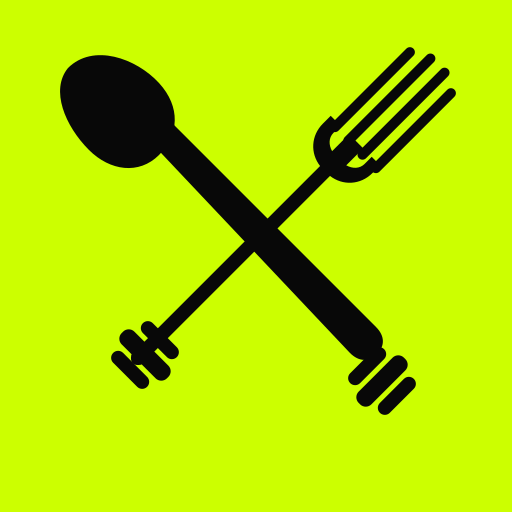
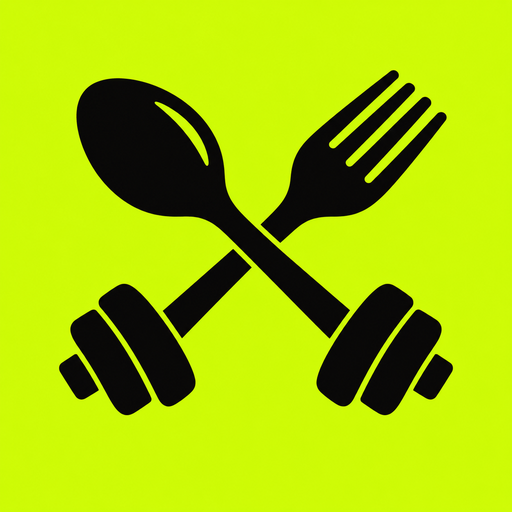
Use supplied Liftrio artwork and neon lime accent

Changed region(s): [[0.0938, 0.0938, 0.9062, 0.8125], [0.0938, 0.0938, 0.4375, 0.3438]]

diff --git a/frontend/src/index.css b/frontend/src/index.css
@@ -37,13 +37,13 @@
   --hair:      .5px;
 
   /* system palette (iOS dark values) */
-  --blue:#0a84ff; --green:#30d158; --red:#ff453a; --orange:#ff9f0a;
+  --blue:#0a84ff; --green:#CCFF00; --red:#ff453a; --orange:#ff9f0a;
   --yellow:#ffd60a; --teal:#40c8e0; --indigo:#5e5ce6; --pink:#ff375f;
   --purple:#bf5af2; --mint:#63e6e2; --brown:#ac8e68; --grey:#8e8e93;
 
   /* accent (per-account, synced) */
   --acc:  var(--green);
-  --acc-2:#248a3d;
+  --acc-2:#A3CC00;
   --on-acc:#000000;
   --acc-soft: color-mix(in srgb, var(--acc) 16%, transparent);
   --acc-line: color-mix(in srgb, var(--acc) 38%, transparent);
@@ -76,15 +76,15 @@
   --sep:       rgba(60,60,67,.29);
   --sep-op:    rgba(60,60,67,.20);
 
-  --blue:#007aff; --green:#34c759; --red:#ff3b30; --orange:#ff9500;
+  --blue:#007aff; --green:#CCFF00; --red:#ff3b30; --orange:#ff9500;
   --yellow:#ffcc00; --teal:#30b0c7; --indigo:#5856d6; --pink:#ff2d55;
   --purple:#af52de; --mint:#00c7be; --brown:#a2845e; --grey:#8e8e93;
-  --acc-2:#248a3d;
-  --on-acc:#ffffff;
+  --acc-2:#A3CC00;
+  --on-acc:#000000;
 }
 
-/* accents — Apple's system colours, so a recolour never looks off-system */
-:root[data-accent="lime"]  { --acc:var(--green);  --acc-2:#248a3d; --on-acc:#000 }
+/* accents — Liftrio lime plus the optional system palette */
+:root[data-accent="lime"]  { --acc:var(--green);  --acc-2:#A3CC00; --on-acc:#000 }
 :root[data-accent="sky"]   { --acc:var(--blue);   --acc-2:#0060df; --on-acc:#fff }
 :root[data-accent="orange"]{ --acc:var(--orange); --acc-2:#c76b00; --on-acc:#000 }
 :root[data-accent="violet"]{ --acc:var(--purple); --acc-2:#8944ab; --on-acc:#fff }
@@ -92,13 +92,8 @@
 :root[data-accent="red"]   { --acc:var(--red);    --acc-2:#d70015; --on-acc:#fff }
 :root[data-accent="teal"]  { --acc:var(--teal);   --acc-2:#0071a4; --on-acc:#000 }
 :root[data-accent="gold"]  { --acc:var(--yellow); --acc-2:#b25000; --on-acc:#000 }
-:root[data-accent="neon"] { --acc:#CCFF00; --acc-2:#93b800; --on-acc:#000 }
-/* Label colour on a filled accent button is picked per accent by measured contrast,
-   not by taste. Button text is 17px/600, so the AA bar is 3:1 (large text). White on
-   the light-theme green is 2.22:1 and on teal 2.57:1 — both fail, and green is the
-   DEFAULT accent, so every primary button in light mode was failing. Black scores
-   9.46 / 8.16 there. Blue, purple, pink and red keep white (3.5–4.1:1), which both
-   passes and matches the platform convention. */
+:root[data-accent="neon"] { --acc:#CCFF00; --acc-2:#A3CC00; --on-acc:#000 }
+/* Dark text keeps the bright lime and teal buttons legible in light mode. */
 :root[data-theme="light"][data-accent="lime"],
 :root[data-theme="light"][data-accent="teal"]  { --on-acc:#000 }
 :root[data-theme="light"][data-accent="sky"],

diff --git a/frontend/src/views/Login.jsx b/frontend/src/views/Login.jsx
@@ -5,7 +5,6 @@ import { hasData } from '../store/useStore.js'
 import { t } from '../lib/i18n.js'
 import { DEMO, REPO } from '../lib/demo.js'
 import { useState, useRef, useEffect } from 'react'
-import Icon from '../components/Icon.jsx'
 import { Button } from '../components/ui.jsx'
 
 function RegisterSheet({ close }) {
@@ -55,7 +54,7 @@ export default function Login() {
     catch (e) { if (e.name !== 'NotAllowedError' && e.name !== 'AbortError') useUI.getState().toast(e.message || t('Sign-in failed')) }
   }
   const head = <>
-    <div style={{ fontSize: 54, display: 'flex', justifyContent: 'center', color: 'var(--acc)' }}><Icon name="dumbbell" /></div>
+    <div style={{ display: 'flex', justifyContent: 'center' }}><img src="icon-180.png" alt="" width="80" height="80" style={{ borderRadius: 18 }} /></div>
     <h1 style={{ fontSize: 34, fontWeight: 700, letterSpacing: '-.028em', margin: '10px 0 4px' }}>Liftrio</h1>
   </>
   const wrap = { display: 'flex', flexDirection: 'column', justifyContent: 'center', minHeight: '78vh', textAlign: 'center' }

diff --git a/frontend/src/App.jsx b/frontend/src/App.jsx
@@ -8,7 +8,6 @@ import { setLang, useLang } from './lib/i18n.js'
 import { setNav } from './lib/nav.js'
 import { useWakeLock } from './lib/wakelock.js'
 import { startFlow } from './sheets.jsx'
-import Icon from './components/Icon.jsx'
 import TabBar from './components/TabBar.jsx'
 import ErrorBoundary from './components/ErrorBoundary.jsx'
 import Modals from './components/Modals.jsx'
@@ -56,8 +55,8 @@ function Shell() {
   const authed = user || isGuest
   if (!ready && !authed) return (
     <div id="app">
-      <div style={{ paddingTop: '44vh', display: 'flex', justifyContent: 'center', fontSize: 34, color: 'var(--label-3)' }}>
-        <Icon name="dumbbell" />
+      <div style={{ paddingTop: '44vh', display: 'flex', justifyContent: 'center' }}>
+        <img src="icon-180.png" alt="" width="48" height="48" style={{ borderRadius: 11 }} />
       </div>
     </div>
   )

diff --git a/frontend/src/lib/format.js b/frontend/src/lib/format.js
@@ -44,4 +44,4 @@ export function weekKey(d) {
 export const localTZ = () => { try { return Intl.DateTimeFormat().resolvedOptions().timeZone || 'UTC' } catch { return 'UTC' } }
 
 export const uid = () => Date.now().toString(36) + Math.random().toString(36).slice(2, 7)
-export const ACCENTS = { lime: '#30d158', sky: '#0a84ff', orange: '#ff9f0a', violet: '#bf5af2', pink: '#ff375f', red: '#ff453a', teal: '#40c8e0', gold: '#ffd60a', neon: '#CCFF00' }
+export const ACCENTS = { lime: '#CCFF00', sky: '#0a84ff', orange: '#ff9f0a', violet: '#bf5af2', pink: '#ff375f', red: '#ff453a', teal: '#40c8e0', gold: '#ffd60a', neon: '#CCFF00' }

diff --git a/docs/MOBILE.md b/docs/MOBILE.md
@@ -43,16 +43,14 @@ into both native projects — re-run it after every web-code change before build
 
 ## App icons & splash screens
 
-`frontend/resources/icon.svg` is the 1024×1024 source (the app's dumbbell glyph on the
-app background). Generate all platform assets from it on a machine with the tooling:
+`frontend/resources/icon.png` is the original Liftrio artwork. The PWA icons are
+resized copies of this image. Generate native platform assets from it with:
 
 ```sh
 cd frontend
-npx @capacitor/assets generate --iconBackgroundColor '#0c0e12' --splashBackgroundColor '#0c0e12'
+npx @capacitor/assets generate --iconBackgroundColor '#CCFF00' --splashBackgroundColor '#CCFF00'
 ```
 
-(If the generator won't take the SVG directly, export it to `resources/icon.png` at
-1024×1024 first — any image tool can do it.)
 
 ## Distribution — deliberately no app stores
 
